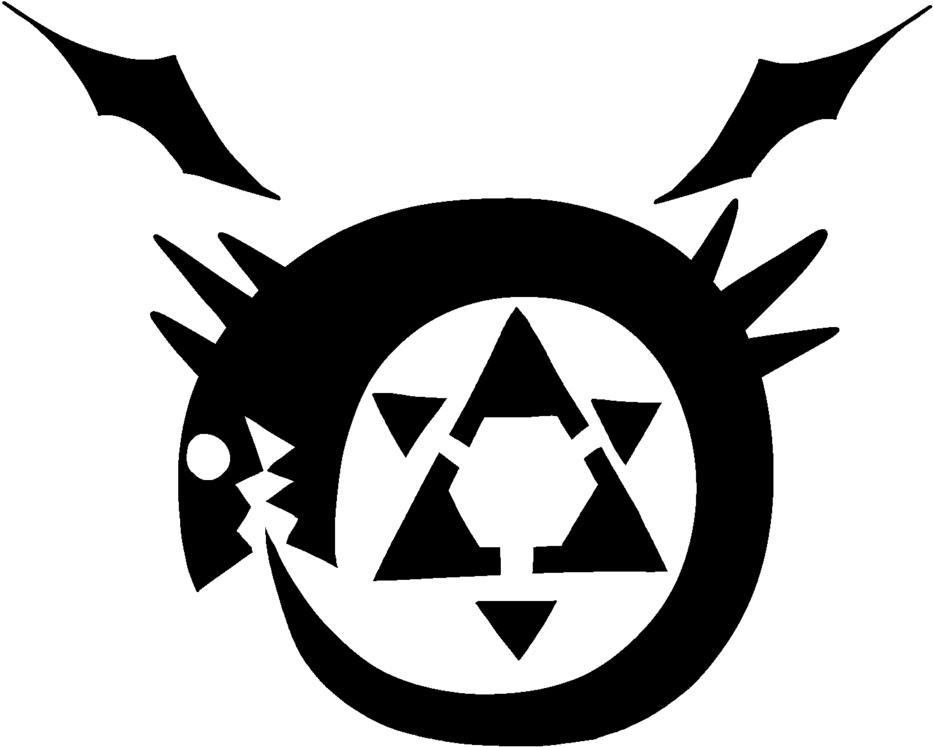
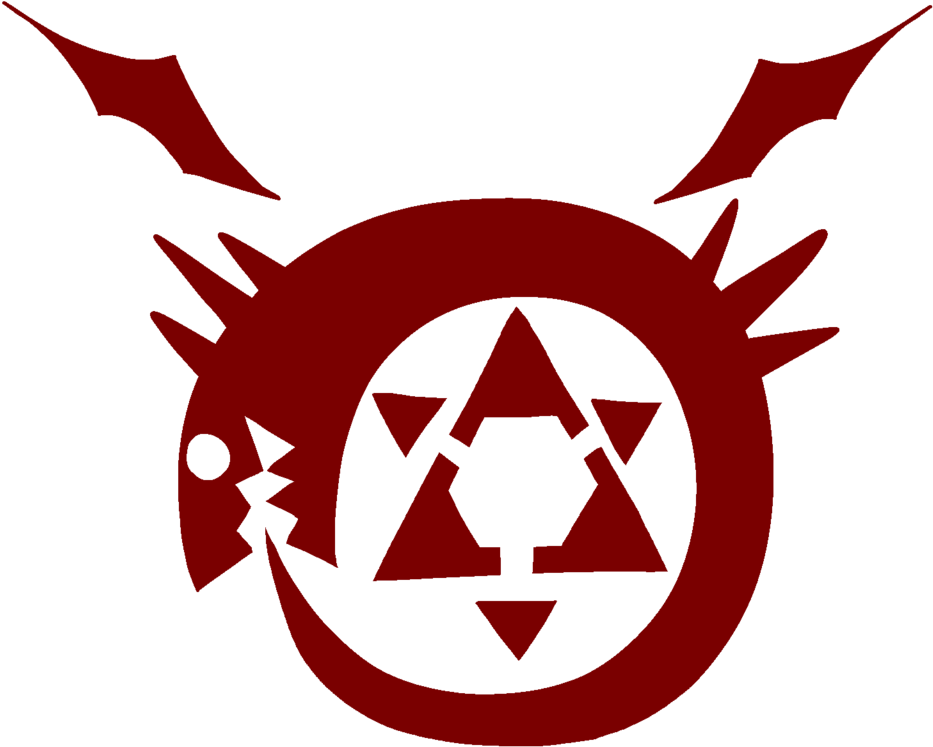
commit

diff --git a/index.html b/index.html
@@ -17,7 +17,8 @@
     </head>
     <body leftmargin="0" topmargin="0">
         <div class="fullscreen">
-        <h1> LUST </h1>        
+        <h1> LUST </h1>
+        <img src="images/ouroboros-transparent.png">
 
 
             <!-- 6가지 heading type, 주로 3, 4만 사용하게 될 것 같음
